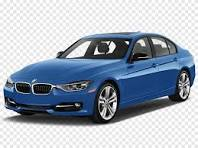
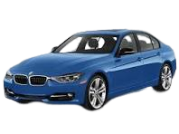
nova estilização da página de produtos, imagens modificadas, inserção de novas imagens

diff --git a/app/produtos/page.tsx b/app/produtos/page.tsx
@@ -3,22 +3,22 @@ import ProductCard from "@/components/ProductCard";
 export default function Produtos() {
     return (
         <main>
-            <section className="flex flex-wrap">
+            <section className="flex flex-wrap bg-gray-200">
                 <ProductCard
                     img="/bmw.png"
-                    title="BMW muito bonita"
-                    price={10000000000000}
+                    title="BMW 2021"
+                    price={10000}
                     description="essa BMW eh linda" />
                 <ProductCard
                     img="/bmw2.png"
                     title="BMW mais bonita ainda"
-                    price={151515}
+                    price={14255}
                     description="essa bmw possui 4 pneus" />
 
                 <ProductCard
                     img="/bmw3.png"
                     title="BMW modelo novo 2030"
-                    price={151515}
+                    price={121315}
                     description="essa BMW também tem 4 pneus" />
                     <ProductCard
                     img="/bmw2.png"
@@ -29,7 +29,7 @@ export default function Produtos() {
                 <ProductCard
                     img="/bmw3.png"
                     title="BMW modelo novo 2030"
-                    price={151515}
+                    price={190002}
                     description="essa BMW também tem 4 pneus" />
                     <ProductCard
                     img="/bmw2.png"
@@ -40,7 +40,7 @@ export default function Produtos() {
                 <ProductCard
                     img="/bmw3.png"
                     title="BMW modelo novo 2030"
-                    price={151515}
+                    price={155445}
                     description="essa BMW também tem 4 pneus" />
 
             </section>

diff --git a/components/ProductCard/style.css b/components/ProductCard/style.css
@@ -1,26 +1,37 @@
-
-
 .product-card{
-    width: 100%;
-    height: 100%;
-    padding: 1rem;
+    padding: 1rem 0;
+    width: 30%;
+    max-width: 390px;
+    min-width: 200px;
+    border-radius: 0.5rem;
+    border: 1px solid;
+    display: flex;
+    flex-direction: column;
+    align-items: center;
+    margin: 1.5rem;
+    background-color: white;
+    border-color: black;
 }
+
 
 .product-card h2{
     display: flex;
-    font-size: 2.2rem;
-    font-weight: 500;
+    font-size: 1.2rem;
+    font-weight: medium;
+    margin-bottom: .1rem;
 }
 
 .product-card p{
-    font-size: 1.5rem;
-    font-weight: 300;
+    font-size: 1rem;
+    font-weight: 400;
     margin-top: 1px;
-    margin-bottom: 10px;
+    margin-bottom: .5rem;
 }
 
-.product-card span{
-    font-size: 1rem;
-    font-weight: normal;
-    margin-bottom: 10px;
+.product-card p:last-child{
+    font-size: 1.5rem;
+
 }
+
+
+

diff --git a/components/ProductCard/index.tsx b/components/ProductCard/index.tsx
@@ -6,10 +6,10 @@ import './style.css';
 function ProductCard({ img, title, price, description }: ProductCardInterface) {
     return (
         <div className="product-card">
-            <Image src={img} alt={title} width={350} height={200} />
+            <Image src={img} alt={title} width={200} height={150} />
             <h2>{title}</h2>
             <p>{description}</p>
-            <p>R$:{price}</p>
+            <p className="preco">R$:{price}</p>
         </div>
     )
 }
